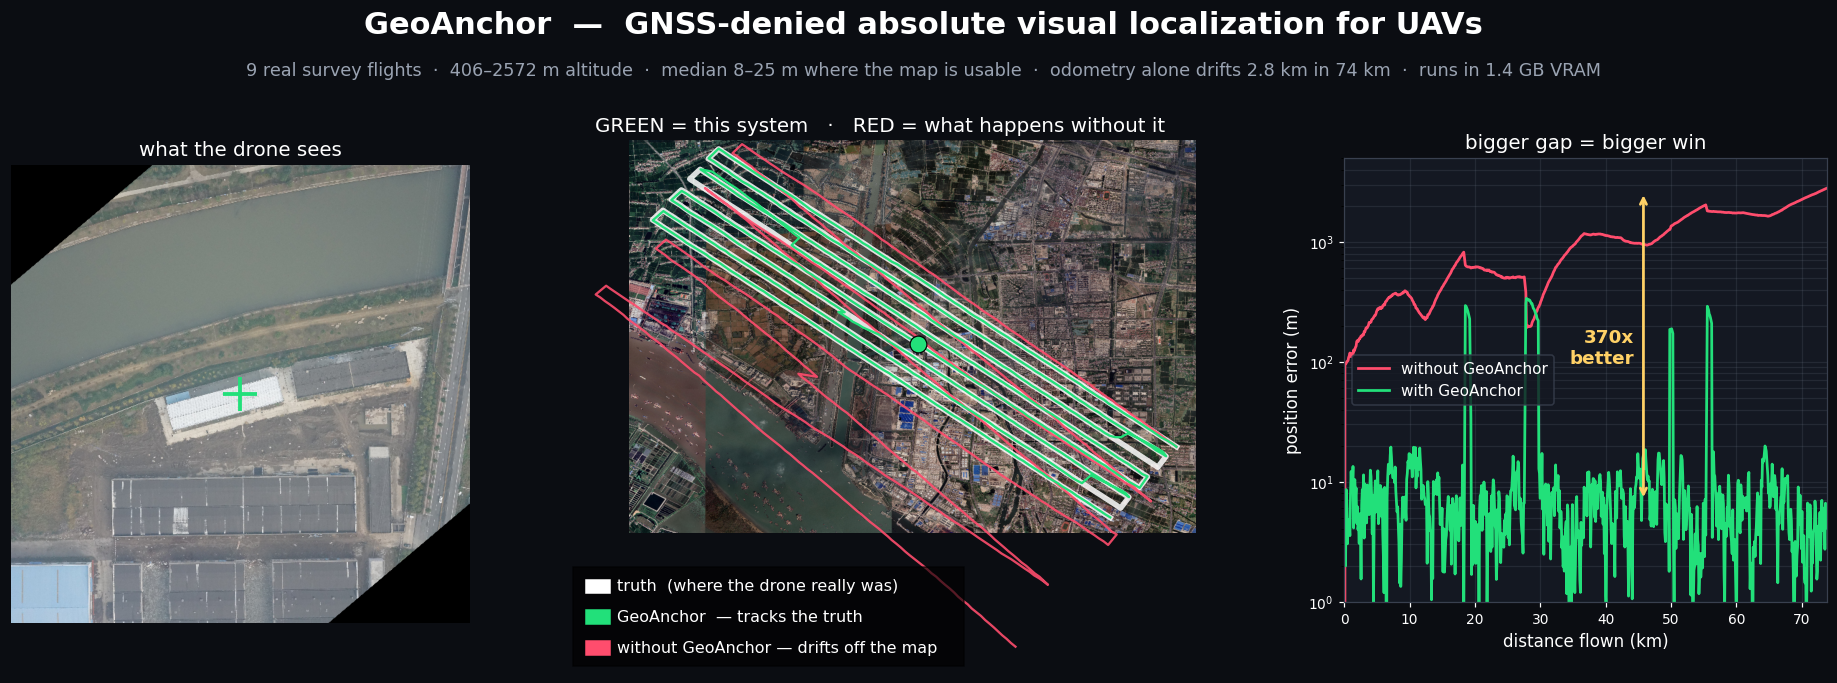
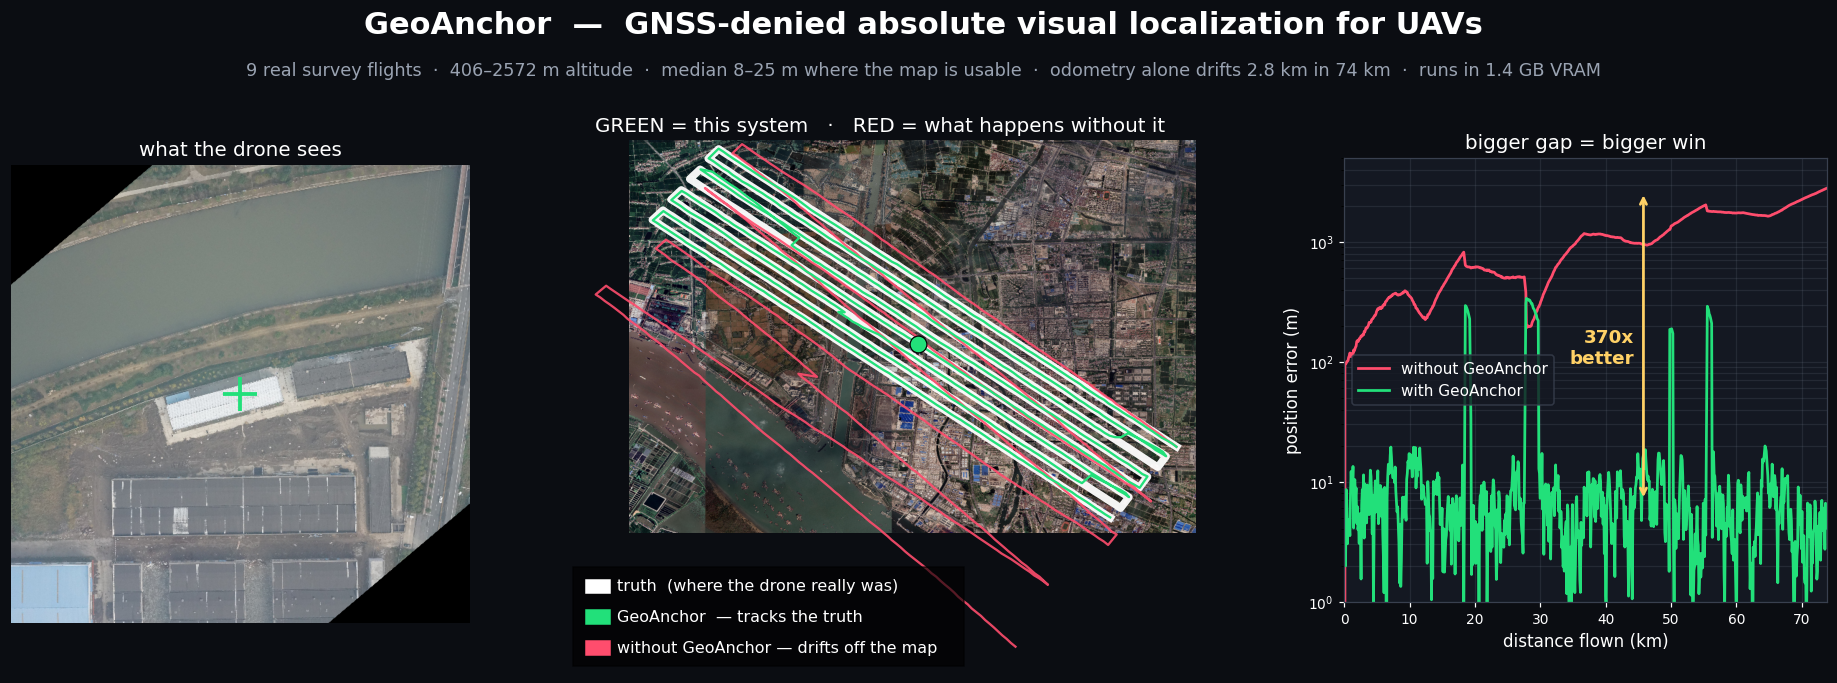
Use one colour for ground truth in both panels
The left panel drew truth in cyan and the right panel in white - the same
thing in two colours across one figure. Both are white now, and every legend
entry says whose estimate it is rather than naming a method.

Changed region(s): [[0.3413, 0.2152, 0.6516, 0.7687]]

diff --git a/scripts/09_figures.py b/scripts/09_figures.py
@@ -87,10 +87,11 @@ def fig_trajectories(D):
 
     ax = axes[0]
     ax.imshow(ov, alpha=0.5)
-    ax.plot(gx, gy, "-", lw=2.4, color=C_GT, label="gercek yorunge (dogru cevap)", zorder=5)
+    ax.plot(gx, gy, "-", lw=3.4, color="#ffffff", alpha=0.95,
+            label="GERCEK yorunge (drone gercekte buradaydi)", zorder=5)
     if "vo" in D:
         vx, vy = to_px(D["vo"]["north"], D["vo"]["east"])
-        lbl = "sistem OLMADAN: 74 km sonra {:.0f} m sapma".format(
+        lbl = "sistem OLMADAN nerede sandigi: 74 km sonra {:.0f} m sapma".format(
             D["vo"]["err"][-1])
         ax.plot(vx, vy, "-", lw=1.8, color=C_VO, alpha=0.95, zorder=4, label=lbl)
         ax.plot(vx[-1], vy[-1], "X", ms=14, color=C_VO, mec="k", mew=0.8, zorder=6)
@@ -102,22 +103,22 @@ def fig_trajectories(D):
     ax = axes[1]
     ax.imshow(ov)
     ax.plot(gx, gy, "-", lw=5.0, color="#ffffff", alpha=0.9,
-            label="GERCEK yorunge (kalin beyaz)", zorder=4)
+            label="GERCEK yorunge (drone gercekte buradaydi)", zorder=4)
     if "sf" in D:
         m = np.isfinite(D["sf"]["north"])
         sxp, syp = to_px(D["sf"]["north"][m], D["sf"]["east"][m])
         ax.plot(sxp, syp, ".", ms=4.5, color=C_SF, alpha=0.95, zorder=5,
-                label="tek kare - sadece %{:.0f} karede sonuc".format(m.mean() * 100))
+                label="tek kare yontemi - sadece %{:.0f} karede sonuc".format(m.mean() * 100))
     if "pf" in D:
         px, py = to_px(D["pf"]["north"], D["pf"]["east"])
         e = D["pf"]["err"]
         ax.plot(px, py, "-", lw=1.5, color=C_PF, alpha=0.95, zorder=6,
-                label="BU SISTEM - %100 kare, medyan {:.1f} m".format(
+                label="BU SISTEM nerede sandigi - %100 kare, medyan {:.1f} m".format(
                     np.nanmedian(e)))
         bad = e > 50
         if bad.any():
             ax.plot(px[bad], py[bad], ".", ms=6, color="#ff2d55", zorder=7,
-                    label="eslemenin coktugu kesimler (%{:.1f})".format(
+                    label="eslemenin coktugu yerler - burada beyaz aciga cikiyor (%{:.1f})".format(
                         bad.mean() * 100))
     ax.set_title(T_SAG, fontsize=13)
     ax.legend(loc="upper right", fontsize=10, framealpha=0.9)

diff --git a/scripts/24_hero.py b/scripts/24_hero.py
@@ -79,7 +79,7 @@ def main():
     # --- panel 2: harita ---
     ax = fig.add_axes([0.272, 0.055, 0.41, 0.755])
     ax.imshow(ov)
-    ax.plot(gx, gy, "-", lw=3.6, color="#ffffff", alpha=0.85)
+    ax.plot(gx, gy, "-", lw=5.0, color="#ffffff", alpha=0.95)
     ax.plot(vx, vy, "-", lw=1.5, color=C_VO, alpha=0.9)
     ax.plot(px, py, "-", lw=1.5, color=C_PF)
     ax.plot(px[FRAME], py[FRAME], "o", ms=11, color=C_PF, mec="k", mew=0.8, zorder=6)
